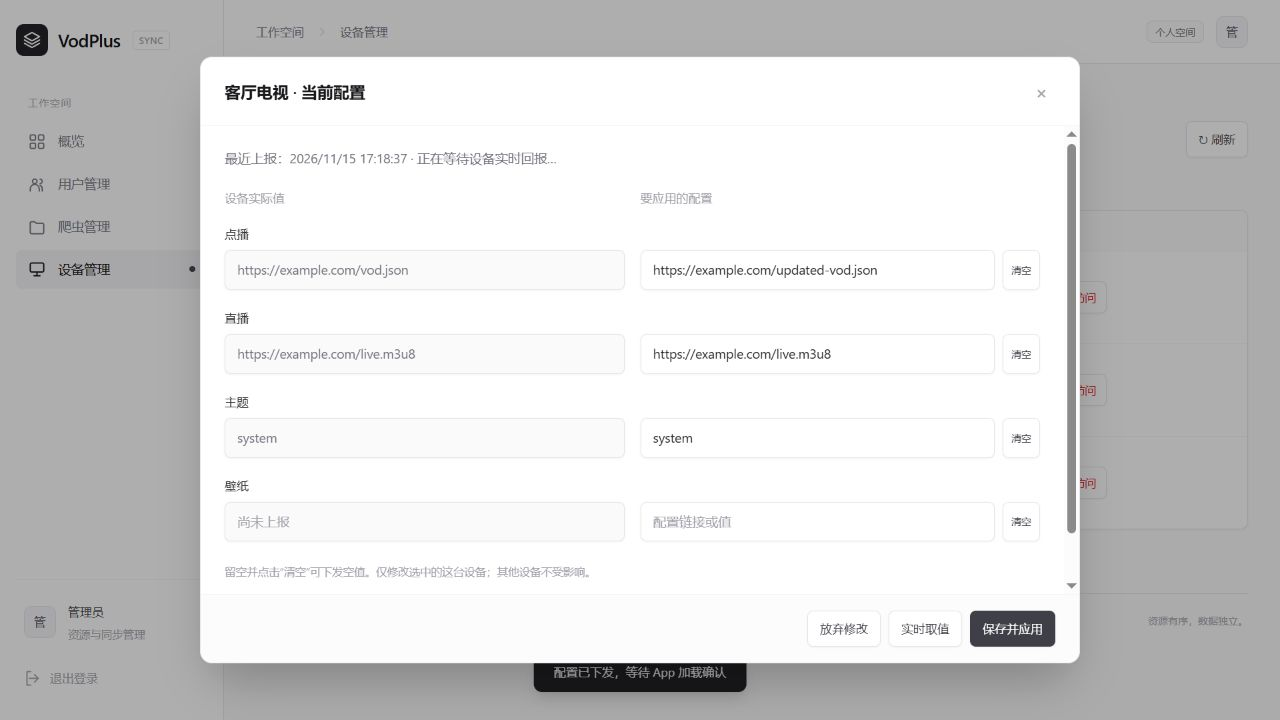
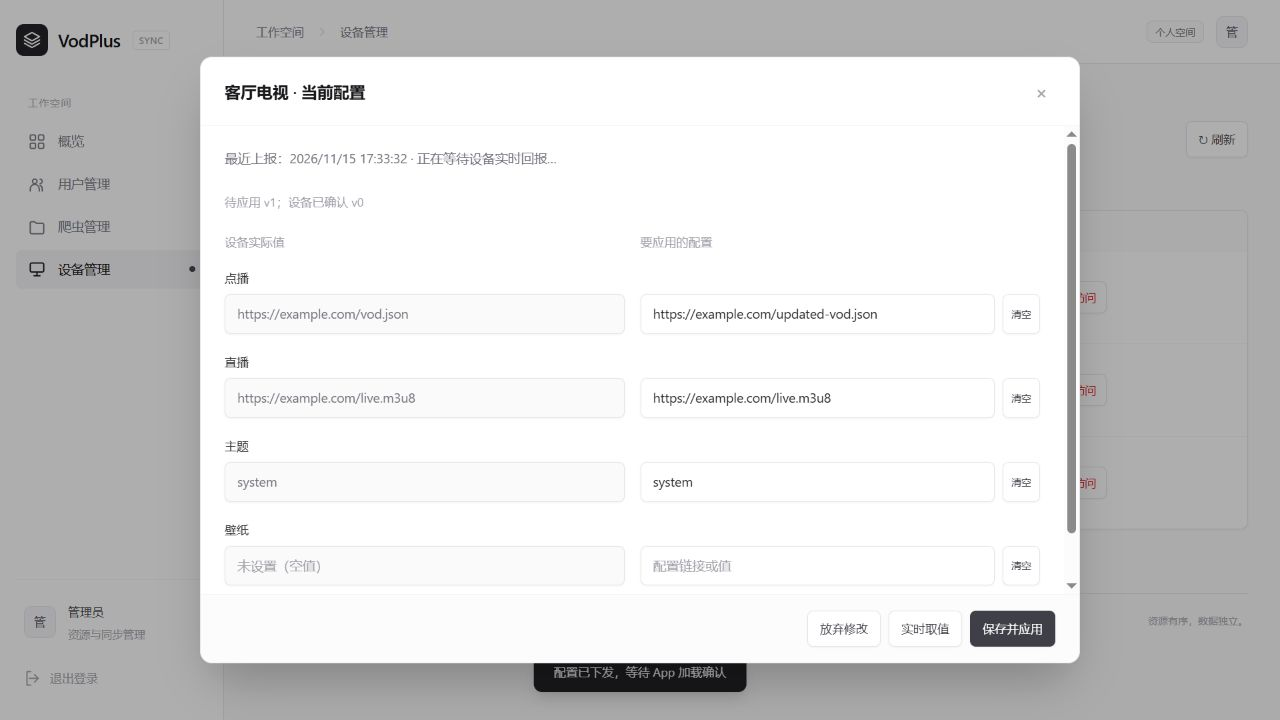
fix: distinguish empty device values from missing reports

diff --git a/web/pages/device-config.js b/web/pages/device-config.js
@@ -3,13 +3,13 @@ import {$,api,send,esc,time,toast,setUnsaved,onPageLeave} from '../ui.js';
 const fields=[['vod','点播'],['live','直播'],['theme','主题'],['wallpaper','壁纸']];
 export async function showDeviceConfig(device){
   const modal=$('#modal');modal.classList.add('device-config-modal');const base=`/api/admin/devices/${device.id}/config`;
-  modal.innerHTML=`<div class="dialog-heading"><h2>${esc(device.name)} · 当前配置</h2><button class="icon-button" id="close-device-config" aria-label="关闭">×</button></div><div class="dialog-body"><p id="device-config-status" role="status">正在读取设备状态…</p><div class="device-config-labels"><span>设备实际值</span><span>要应用的配置</span></div>${fields.map(([key,label])=>`<div class="device-config-field"><h3>${label}</h3><div><input id="current-${key}" aria-label="${label}当前值" readonly placeholder="尚未上报"><div class="device-config-input"><input id="desired-${key}" aria-label="${label}新配置" placeholder="配置链接或值"><button type="button" data-clear="${key}" title="清空${label}配置">清空</button></div></div></div>`).join('')}<small>留空并点击“清空”可下发空值。仅修改选中的这台设备；其他设备不受影响。</small><p id="device-apply-state" class="muted"></p><p id="device-config-error" class="error-text" role="alert" hidden></p></div><div class="dialog-footer"><button id="reset-device-config">放弃修改</button><button id="refresh-device-config">实时取值</button><button class="primary" id="save-device-config">保存并应用</button></div>`;
+  modal.innerHTML=`<div class="dialog-heading"><h2>${esc(device.name)} · 当前配置</h2><button class="icon-button" id="close-device-config" aria-label="关闭">×</button></div><div class="dialog-body"><p id="device-config-status" role="status">正在读取设备状态…</p><p id="device-apply-state" class="muted"></p><div class="device-config-labels"><span>设备实际值</span><span>要应用的配置</span></div>${fields.map(([key,label])=>`<div class="device-config-field"><h3>${label}</h3><div><input id="current-${key}" aria-label="${label}当前值" readonly placeholder="尚未上报"><div class="device-config-input"><input id="desired-${key}" aria-label="${label}新配置" placeholder="配置链接或值"><button type="button" data-clear="${key}" title="清空${label}配置">清空</button></div></div></div>`).join('')}<small>留空并点击“清空”可下发空值。仅修改选中的这台设备；其他设备不受影响。</small><p id="device-config-error" class="error-text" role="alert" hidden></p></div><div class="dialog-footer"><button id="reset-device-config">放弃修改</button><button id="refresh-device-config">实时取值</button><button class="primary" id="save-device-config">保存并应用</button></div>`;
   let state=null,dirty=new Set(),editRevision=null,busy=false,closed=false,timer=null,waiting=null,until=Date.now()+60000,submission=null;
   const error=message=>{if(closed)return;$('#device-config-error').textContent=message;$('#device-config-error').hidden=false;};
   function update(next){
     if(closed)return;if(state&&(next.revision<state.revision||next.reportSeq<state.reportSeq||next.refreshRevision<state.refreshRevision))return;
     state=next;
-    for(const [key] of fields){$('#current-'+key).value=next.current?.[key]??'';if(!dirty.has(key))$('#desired-'+key).value=Object.hasOwn(next.desired,key)&&next.revision>next.appliedRevision?next.desired[key]:next.current?.[key]??'';}
+    for(const [key] of fields){$('#current-'+key).value=next.current?.[key]??'';$('#current-'+key).placeholder=next.current?'未设置（空值）':'尚未上报';if(!dirty.has(key))$('#desired-'+key).value=Object.hasOwn(next.desired,key)&&next.revision>next.appliedRevision?next.desired[key]:next.current?.[key]??'';}
     $('#device-config-status').textContent=next.current?`最近上报：${time(next.reportedAt)}`:'设备尚未上报当前配置，需要 App 接入配置控制接口。';
     if(waiting!==null){if(next.reportedRefreshRevision>=waiting){$('#device-config-status').textContent=`已取得新的设备回报：${time(next.reportedAt)}`;waiting=null;}else $('#device-config-status').textContent+=Date.now()<until?' · 正在等待设备实时回报…':' · 暂未收到新回报，设备可能离线。';}
     $('#device-apply-state').textContent=next.revision>next.appliedRevision?`待应用 v${next.revision}；设备已确认 v${next.appliedRevision}${next.error?' · '+next.error:''}`:next.revision?`设备已确认应用 v${next.appliedRevision}`:'尚无远程配置指令。';
